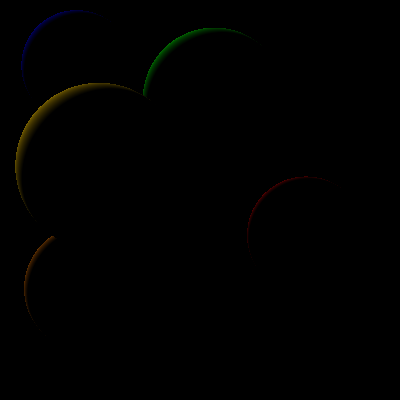
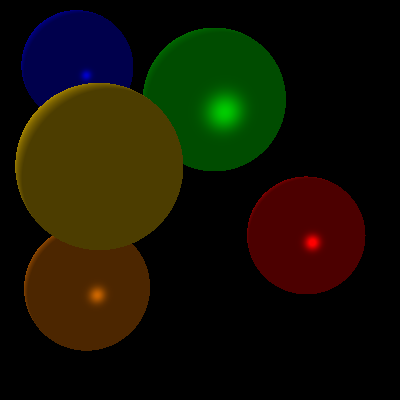
Implemented specular and ambient light but something is not correct (probably the normal calculation)

diff --git a/Code/scene.cpp b/Code/scene.cpp
@@ -7,6 +7,7 @@
 
 #include <cmath>
 #include <limits>
+#include <iostream>
 
 using namespace std;
 
@@ -51,14 +52,21 @@ Color Scene::trace(Ray const &ray)
     *        pow(a,b)           a to the power of b
     ****************************************************/
 
-    Color color = material.color;                  // place holder
     Vector i_D;
+    Vector i_S;
     for (int i = 0; i < lights.size(); i++) {
         Vector L = (lights[i]->position - hit).normalized();
-        i_D += lights[i]->color * fmax(0, N.dot(L));
+        Vector R = 2*(N.dot(L))*N - L;
+        i_D += lights[i]->color * fmax(0, L.dot(N));
+        i_S += lights[i]->color * pow(fmax(0, R.dot(V)), material.n);
     }
+    i_D *= material.kd;
+    i_S *= material.ks;
 
-    return color*i_D;
+    Color lighting = 0.3+i_S+i_D;
+    lighting.clamp();
+
+    return lighting * material.color;
 }
 
 void Scene::render(Image &img)

diff --git a/Code/shapes/sphere.cpp b/Code/shapes/sphere.cpp
@@ -1,6 +1,7 @@
 #include "sphere.h"
 
 #include <cmath>
+#include <iostream>
 
 using namespace std;
 
@@ -31,6 +32,9 @@ Hit Sphere::intersect(Ray const &ray)
         return Hit::NO_HIT();
     }
     double t = -b+sqrt(d);
+    if (t < 0) {
+        return Hit::NO_HIT();
+    }
 
     /****************************************************
     * RT1.2: NORMAL CALCULATION
@@ -41,8 +45,7 @@ Hit Sphere::intersect(Ray const &ray)
     * Insert calculation of the sphere's normal at the intersection point.
     ****************************************************/
 
-    Vector hitLoc = ray.O + t*ray.D;
-    Vector N = (hitLoc - position).normalized();
+    Vector N = (ray.at(t) - position).normalized();
 
     return Hit(t,N);
 }
